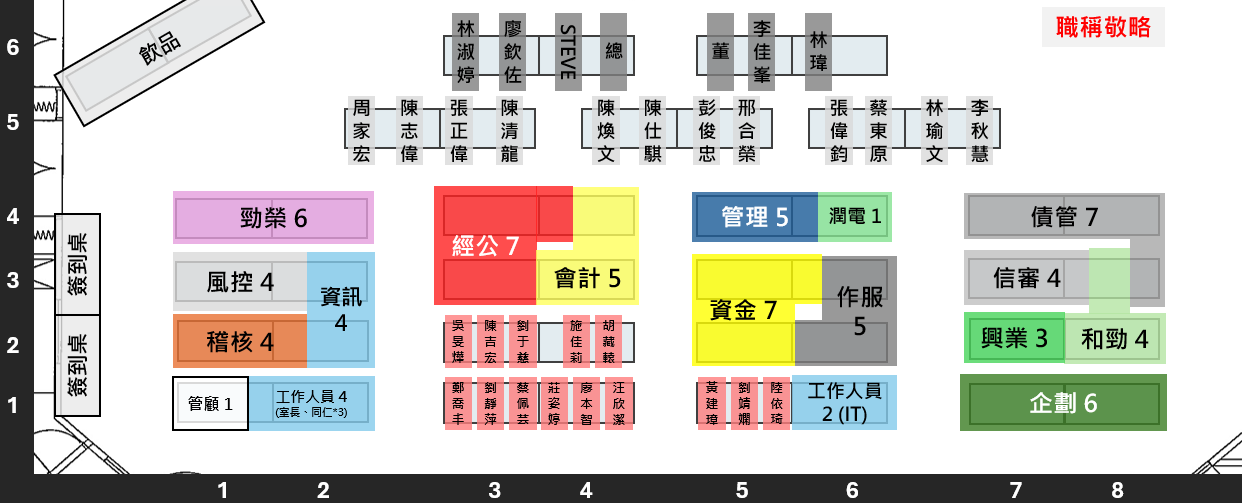
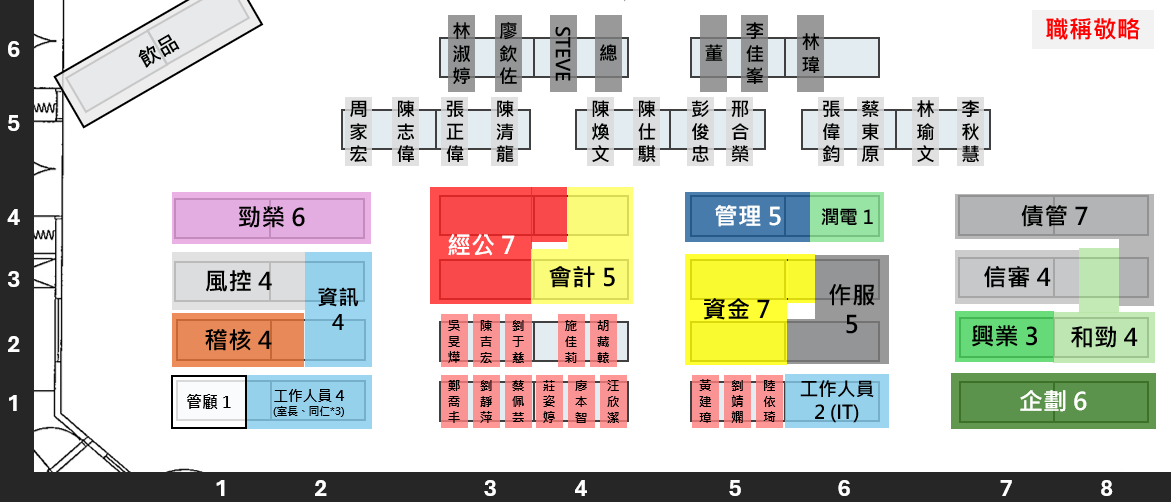
content: update feedback copy and seating map

diff --git a/assets/app.js b/assets/app.js
@@ -299,7 +299,7 @@
       ${pageHero(eyebrow, title, description)}
       <section class="section"><div class="shell form-layout">
         <div class="form-guidance reveal">
-          <p class="eyebrow">MICROSOFT FORMS</p><h2>${isCheckin ? "開始報到" : "告訴我們你的需求"}</h2>
+          <p class="eyebrow">MICROSOFT FORMS</p><h2>${isCheckin ? "開始報到" : "請讓我們了解你在AI的使用情況與需求"}</h2>
           <p>若內嵌表單無法顯示，請點選按鈕前往</p>
           ${url ? `<a class="button button-secondary" href="${escapeHtml(url)}" target="_blank" rel="noopener noreferrer">另開表單 ${icon("external")}</a>` : `<span class="status-pill status-pending">表單連結待提供</span>`}
         </div>

diff --git a/docs/test-report.md b/docs/test-report.md
@@ -2,7 +2,7 @@
 
 - 測試日期：2026/11/26
 - 測試環境：Windows、Microsoft Edge（headless）、本機 HTTP 伺服器
-- 測試基準 revision：`51192c5` 加本次待提交變更
+- 測試基準 revision：`272ac1b` 加本次待提交變更
 - 受測資料：新版 JPG 活動 DM、Excel 議程、兩種方向座位圖、Forms 與 Teams URL、Google Maps 周邊停車資訊
 
 ## 結果
@@ -24,6 +24,7 @@
 | 首頁內容順序 | PASS | 主視覺 → 活動導覽 → 活動 DM，日期摘要已移除 |
 | 活動 DM 定位 | PASS | 區塊改名為「活動 DM」、移除說明文字，頂部內距縮小為桌機 32px／手機 24px |
 | 活動 DM 版本 | PASS | 首頁載入新版 `2026 H2黑客松EDM.jpg`；舊版 PNG 已從公開輸出移除 |
+| 回饋頁文案 | PASS | 顯示「請讓我們了解你在AI的使用情況與需求」，Forms 另開視窗與內嵌功能保留 |
 | 首頁日期／時間／地點 | PASS | 資料值由 14px 放大至 28px，手機與桌機截圖已人工檢查 |
 | 緊湊活動導覽 | PASS | 六項橫向資訊列於 375／768／1440px 均無溢位 |
 | 手機區塊指示器 | PASS | 三段圓點／長條、目前段落與總段數狀態正確 |
@@ -31,7 +32,7 @@
 | 座位方向切換 | PASS | 面對／背對舞台兩張圖片均載入；點擊與左右方向鍵可切換，ARIA 狀態正確 |
 | 觸控目標 | PASS | 可見連結與按鈕均至少 44×44 CSS px |
 | 減少動態偏好 | PASS | `prefers-reduced-motion: reduce` 下內容保持可見 |
-| 圖片載入 | PASS | Logo、首頁背景、新版 EDM、兩種方向座位圖與 favicon 無破圖 |
+| 圖片載入 | PASS | Logo、首頁背景、新版 EDM、最新面對／背對舞台座位圖與 favicon 無破圖 |
 | 目視檢查 | PASS | 首頁、議程、座位圖與交通頁桌面／手機截圖已人工檢查 |
 | 交通資訊 | PASS | 行天宮站 4 號出口、100 公尺、步行約 2 分鐘、指定停車說明與繁體中文 Google Maps 周邊停車連結已顯示 |
 | Forms 正式 iframe／登入 | NOT_RUN | URL 已置入；公司帳號登入與實際送出需由使用者驗收 |
